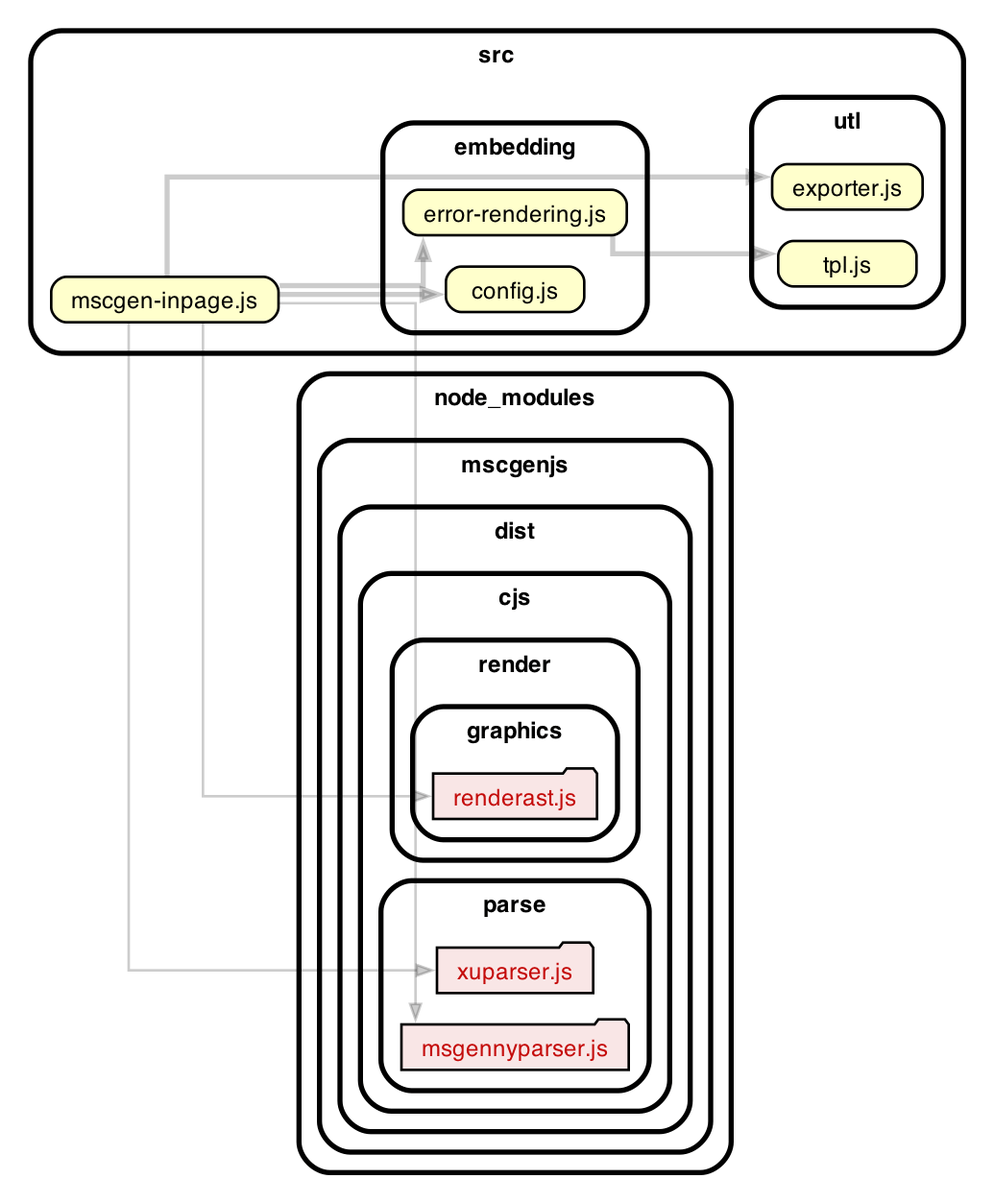
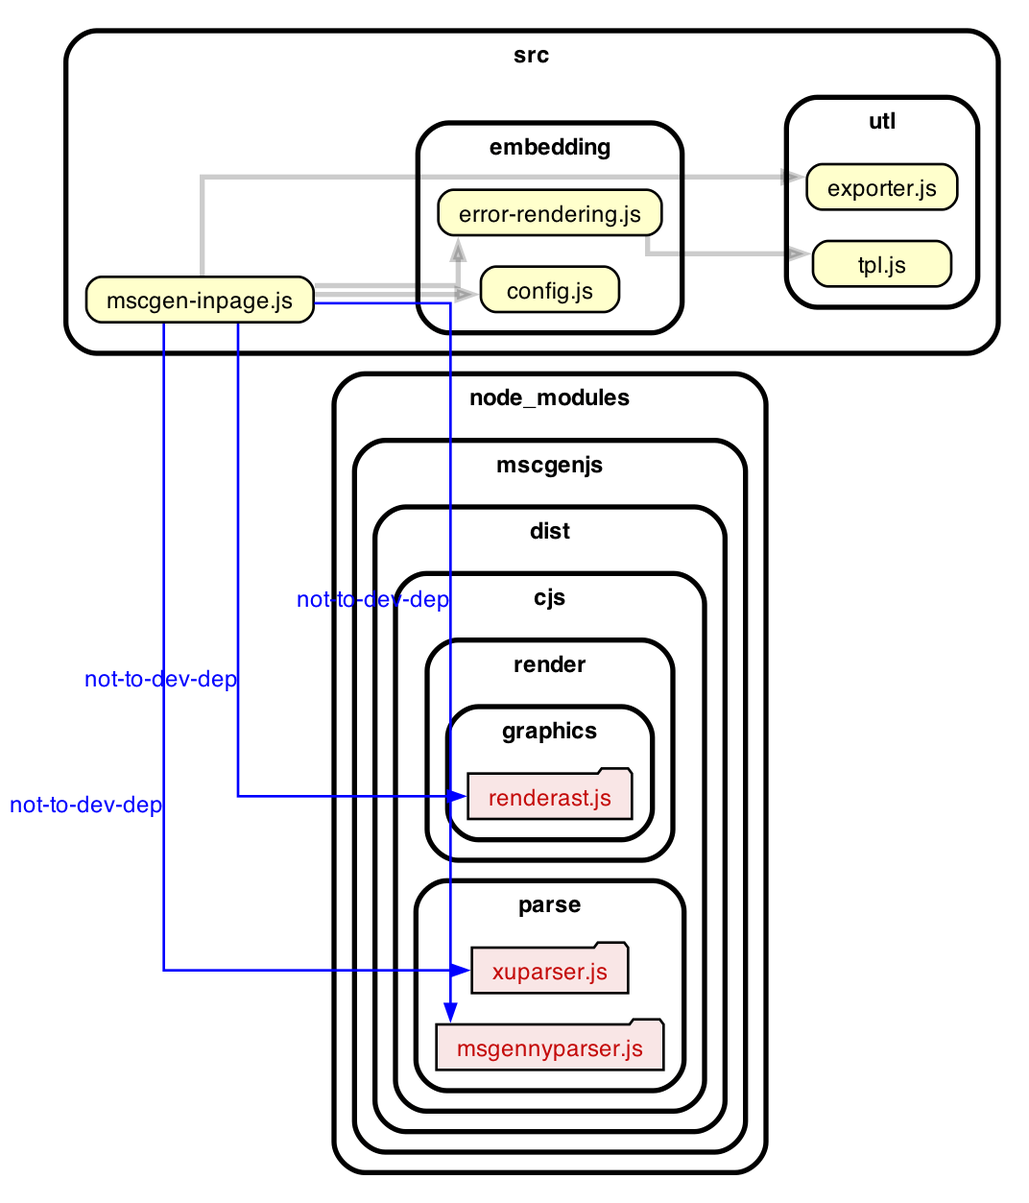
5.0.1

diff --git a/docs/dependencygraph.html b/docs/dependencygraph.html
@@ -125,67 +125,67 @@ div.hint {
 <!-- Generated by graphviz version 11.0.0 (20240428.1522)
  -->
 <!-- Title: dependency&#45;cruiser output Pages: 1 -->
-<svg width="388pt" height="470pt"
- viewBox="0.00 0.00 388.25 470.00" xmlns="http://www.w3.org/2000/svg" xmlns:xlink="http://www.w3.org/1999/xlink">
+<svg width="402pt" height="470pt"
+ viewBox="0.00 0.00 402.00 470.00" xmlns="http://www.w3.org/2000/svg" xmlns:xlink="http://www.w3.org/1999/xlink">
 <g id="graph0" class="graph" transform="scale(1 1) rotate(0) translate(4 466)">
 <title>dependency&#45;cruiser output</title>
-<polygon fill="white" stroke="none" points="-4,4 -4,-466 384.25,-466 384.25,4 -4,4"/>
+<polygon fill="white" stroke="none" points="-4,4 -4,-466 398,-466 398,4 -4,4"/>
 <g id="clust1" class="cluster">
 <title>cluster_node_modules</title>
-<path fill="#ffffff" stroke="black" stroke-width="2" d="M124.75,-8C124.75,-8 269.5,-8 269.5,-8 275.5,-8 281.5,-14 281.5,-20 281.5,-20 281.5,-308 281.5,-308 281.5,-314 275.5,-320 269.5,-320 269.5,-320 124.75,-320 124.75,-320 118.75,-320 112.75,-314 112.75,-308 112.75,-308 112.75,-20 112.75,-20 112.75,-14 118.75,-8 124.75,-8"/>
-<text text-anchor="middle" x="197.12" y="-307.45" font-family="Helvetica,sans-Serif" font-weight="bold" font-size="9.00">node_modules</text>
+<path fill="#ffffff" stroke="black" stroke-width="2" d="M138.5,-8C138.5,-8 283.25,-8 283.25,-8 289.25,-8 295.25,-14 295.25,-20 295.25,-20 295.25,-308 295.25,-308 295.25,-314 289.25,-320 283.25,-320 283.25,-320 138.5,-320 138.5,-320 132.5,-320 126.5,-314 126.5,-308 126.5,-308 126.5,-20 126.5,-20 126.5,-14 132.5,-8 138.5,-8"/>
+<text text-anchor="middle" x="210.88" y="-307.45" font-family="Helvetica,sans-Serif" font-weight="bold" font-size="9.00">node_modules</text>
 </g>
 <g id="clust2" class="cluster">
 <title>cluster_node_modules/mscgenjs</title>
-<path fill="#ffffff" stroke="black" stroke-width="2" d="M132.75,-16C132.75,-16 261.5,-16 261.5,-16 267.5,-16 273.5,-22 273.5,-28 273.5,-28 273.5,-282 273.5,-282 273.5,-288 267.5,-294 261.5,-294 261.5,-294 132.75,-294 132.75,-294 126.75,-294 120.75,-288 120.75,-282 120.75,-282 120.75,-28 120.75,-28 120.75,-22 126.75,-16 132.75,-16"/>
-<text text-anchor="middle" x="197.12" y="-281.45" font-family="Helvetica,sans-Serif" font-weight="bold" font-size="9.00">mscgenjs</text>
+<path fill="#ffffff" stroke="black" stroke-width="2" d="M146.5,-16C146.5,-16 275.25,-16 275.25,-16 281.25,-16 287.25,-22 287.25,-28 287.25,-28 287.25,-282 287.25,-282 287.25,-288 281.25,-294 275.25,-294 275.25,-294 146.5,-294 146.5,-294 140.5,-294 134.5,-288 134.5,-282 134.5,-282 134.5,-28 134.5,-28 134.5,-22 140.5,-16 146.5,-16"/>
+<text text-anchor="middle" x="210.88" y="-281.45" font-family="Helvetica,sans-Serif" font-weight="bold" font-size="9.00">mscgenjs</text>
 </g>
 <g id="clust3" class="cluster">
 <title>cluster_node_modules/mscgenjs/dist</title>
-<path fill="#ffffff" stroke="black" stroke-width="2" d="M140.75,-24C140.75,-24 253.5,-24 253.5,-24 259.5,-24 265.5,-30 265.5,-36 265.5,-36 265.5,-256 265.5,-256 265.5,-262 259.5,-268 253.5,-268 253.5,-268 140.75,-268 140.75,-268 134.75,-268 128.75,-262 128.75,-256 128.75,-256 128.75,-36 128.75,-36 128.75,-30 134.75,-24 140.75,-24"/>
-<text text-anchor="middle" x="197.12" y="-255.45" font-family="Helvetica,sans-Serif" font-weight="bold" font-size="9.00">dist</text>
+<path fill="#ffffff" stroke="black" stroke-width="2" d="M154.5,-24C154.5,-24 267.25,-24 267.25,-24 273.25,-24 279.25,-30 279.25,-36 279.25,-36 279.25,-256 279.25,-256 279.25,-262 273.25,-268 267.25,-268 267.25,-268 154.5,-268 154.5,-268 148.5,-268 142.5,-262 142.5,-256 142.5,-256 142.5,-36 142.5,-36 142.5,-30 148.5,-24 154.5,-24"/>
+<text text-anchor="middle" x="210.88" y="-255.45" font-family="Helvetica,sans-Serif" font-weight="bold" font-size="9.00">dist</text>
 </g>
 <g id="clust4" class="cluster">
 <title>cluster_node_modules/mscgenjs/dist/cjs</title>
-<path fill="#ffffff" stroke="black" stroke-width="2" d="M148.75,-32C148.75,-32 245.5,-32 245.5,-32 251.5,-32 257.5,-38 257.5,-44 257.5,-44 257.5,-230 257.5,-230 257.5,-236 251.5,-242 245.5,-242 245.5,-242 148.75,-242 148.75,-242 142.75,-242 136.75,-236 136.75,-230 136.75,-230 136.75,-44 136.75,-44 136.75,-38 142.75,-32 148.75,-32"/>
-<text text-anchor="middle" x="197.12" y="-229.45" font-family="Helvetica,sans-Serif" font-weight="bold" font-size="9.00">cjs</text>
+<path fill="#ffffff" stroke="black" stroke-width="2" d="M162.5,-32C162.5,-32 259.25,-32 259.25,-32 265.25,-32 271.25,-38 271.25,-44 271.25,-44 271.25,-230 271.25,-230 271.25,-236 265.25,-242 259.25,-242 259.25,-242 162.5,-242 162.5,-242 156.5,-242 150.5,-236 150.5,-230 150.5,-230 150.5,-44 150.5,-44 150.5,-38 156.5,-32 162.5,-32"/>
+<text text-anchor="middle" x="210.88" y="-229.45" font-family="Helvetica,sans-Serif" font-weight="bold" font-size="9.00">cjs</text>
 </g>
 <g id="clust5" class="cluster">
 <title>cluster_node_modules/mscgenjs/dist/cjs/parse</title>
-<path fill="#ffffff" stroke="black" stroke-width="2" d="M156.75,-40C156.75,-40 237.5,-40 237.5,-40 243.5,-40 249.5,-46 249.5,-52 249.5,-52 249.5,-110 249.5,-110 249.5,-116 243.5,-122 237.5,-122 237.5,-122 156.75,-122 156.75,-122 150.75,-122 144.75,-116 144.75,-110 144.75,-110 144.75,-52 144.75,-52 144.75,-46 150.75,-40 156.75,-40"/>
-<text text-anchor="middle" x="197.12" y="-109.45" font-family="Helvetica,sans-Serif" font-weight="bold" font-size="9.00">parse</text>
+<path fill="#ffffff" stroke="black" stroke-width="2" d="M170.5,-40C170.5,-40 251.25,-40 251.25,-40 257.25,-40 263.25,-46 263.25,-52 263.25,-52 263.25,-110 263.25,-110 263.25,-116 257.25,-122 251.25,-122 251.25,-122 170.5,-122 170.5,-122 164.5,-122 158.5,-116 158.5,-110 158.5,-110 158.5,-52 158.5,-52 158.5,-46 164.5,-40 170.5,-40"/>
+<text text-anchor="middle" x="210.88" y="-109.45" font-family="Helvetica,sans-Serif" font-weight="bold" font-size="9.00">parse</text>
 </g>
 <g id="clust6" class="cluster">
 <title>cluster_node_modules/mscgenjs/dist/cjs/render</title>
-<path fill="#ffffff" stroke="black" stroke-width="2" d="M161.12,-130C161.12,-130 233.12,-130 233.12,-130 239.12,-130 245.12,-136 245.12,-142 245.12,-142 245.12,-204 245.12,-204 245.12,-210 239.12,-216 233.12,-216 233.12,-216 161.12,-216 161.12,-216 155.12,-216 149.12,-210 149.12,-204 149.12,-204 149.12,-142 149.12,-142 149.12,-136 155.12,-130 161.12,-130"/>
-<text text-anchor="middle" x="197.12" y="-203.45" font-family="Helvetica,sans-Serif" font-weight="bold" font-size="9.00">render</text>
+<path fill="#ffffff" stroke="black" stroke-width="2" d="M174.88,-130C174.88,-130 246.88,-130 246.88,-130 252.88,-130 258.88,-136 258.88,-142 258.88,-142 258.88,-204 258.88,-204 258.88,-210 252.88,-216 246.88,-216 246.88,-216 174.88,-216 174.88,-216 168.88,-216 162.88,-210 162.88,-204 162.88,-204 162.88,-142 162.88,-142 162.88,-136 168.88,-130 174.88,-130"/>
+<text text-anchor="middle" x="210.88" y="-203.45" font-family="Helvetica,sans-Serif" font-weight="bold" font-size="9.00">render</text>
 </g>
 <g id="clust7" class="cluster">
 <title>cluster_node_modules/mscgenjs/dist/cjs/render/graphics</title>
-<path fill="#ffffff" stroke="black" stroke-width="2" d="M169.12,-138C169.12,-138 225.12,-138 225.12,-138 231.12,-138 237.12,-144 237.12,-150 237.12,-150 237.12,-178 237.12,-178 237.12,-184 231.12,-190 225.12,-190 225.12,-190 169.12,-190 169.12,-190 163.12,-190 157.12,-184 157.12,-178 157.12,-178 157.12,-150 157.12,-150 157.12,-144 163.12,-138 169.12,-138"/>
-<text text-anchor="middle" x="197.12" y="-177.45" font-family="Helvetica,sans-Serif" font-weight="bold" font-size="9.00">graphics</text>
+<path fill="#ffffff" stroke="black" stroke-width="2" d="M182.88,-138C182.88,-138 238.88,-138 238.88,-138 244.88,-138 250.88,-144 250.88,-150 250.88,-150 250.88,-178 250.88,-178 250.88,-184 244.88,-190 238.88,-190 238.88,-190 182.88,-190 182.88,-190 176.88,-190 170.88,-184 170.88,-178 170.88,-178 170.88,-150 170.88,-150 170.88,-144 176.88,-138 182.88,-138"/>
+<text text-anchor="middle" x="210.88" y="-177.45" font-family="Helvetica,sans-Serif" font-weight="bold" font-size="9.00">graphics</text>
 </g>
 <g id="clust8" class="cluster">
 <title>cluster_src</title>
-<path fill="#ffffff" stroke="black" stroke-width="2" d="M20,-328C20,-328 360.25,-328 360.25,-328 366.25,-328 372.25,-334 372.25,-340 372.25,-340 372.25,-442 372.25,-442 372.25,-448 366.25,-454 360.25,-454 360.25,-454 20,-454 20,-454 14,-454 8,-448 8,-442 8,-442 8,-340 8,-340 8,-334 14,-328 20,-328"/>
-<text text-anchor="middle" x="190.12" y="-441.45" font-family="Helvetica,sans-Serif" font-weight="bold" font-size="9.00">src</text>
+<path fill="#ffffff" stroke="black" stroke-width="2" d="M33.75,-328C33.75,-328 374,-328 374,-328 380,-328 386,-334 386,-340 386,-340 386,-442 386,-442 386,-448 380,-454 374,-454 374,-454 33.75,-454 33.75,-454 27.75,-454 21.75,-448 21.75,-442 21.75,-442 21.75,-340 21.75,-340 21.75,-334 27.75,-328 33.75,-328"/>
+<text text-anchor="middle" x="203.88" y="-441.45" font-family="Helvetica,sans-Serif" font-weight="bold" font-size="9.00">src</text>
 </g>
 <g id="clust9" class="cluster">
 <title>cluster_src/embedding</title>
-<path fill="#ffffff" stroke="black" stroke-width="2" d="M157.5,-336C157.5,-336 236.75,-336 236.75,-336 242.75,-336 248.75,-342 248.75,-348 248.75,-348 248.75,-406 248.75,-406 248.75,-412 242.75,-418 236.75,-418 236.75,-418 157.5,-418 157.5,-418 151.5,-418 145.5,-412 145.5,-406 145.5,-406 145.5,-348 145.5,-348 145.5,-342 151.5,-336 157.5,-336"/>
-<text text-anchor="middle" x="197.12" y="-405.45" font-family="Helvetica,sans-Serif" font-weight="bold" font-size="9.00">embedding</text>
+<path fill="#ffffff" stroke="black" stroke-width="2" d="M171.25,-336C171.25,-336 250.5,-336 250.5,-336 256.5,-336 262.5,-342 262.5,-348 262.5,-348 262.5,-406 262.5,-406 262.5,-412 256.5,-418 250.5,-418 250.5,-418 171.25,-418 171.25,-418 165.25,-418 159.25,-412 159.25,-406 159.25,-406 159.25,-348 159.25,-348 159.25,-342 165.25,-336 171.25,-336"/>
+<text text-anchor="middle" x="210.88" y="-405.45" font-family="Helvetica,sans-Serif" font-weight="bold" font-size="9.00">embedding</text>
 </g>
 <g id="clust10" class="cluster">
 <title>cluster_src/utl</title>
-<path fill="#ffffff" stroke="black" stroke-width="2" d="M301.5,-346C301.5,-346 352.25,-346 352.25,-346 358.25,-346 364.25,-352 364.25,-358 364.25,-358 364.25,-416 364.25,-416 364.25,-422 358.25,-428 352.25,-428 352.25,-428 301.5,-428 301.5,-428 295.5,-428 289.5,-422 289.5,-416 289.5,-416 289.5,-358 289.5,-358 289.5,-352 295.5,-346 301.5,-346"/>
-<text text-anchor="middle" x="326.88" y="-415.45" font-family="Helvetica,sans-Serif" font-weight="bold" font-size="9.00">utl</text>
+<path fill="#ffffff" stroke="black" stroke-width="2" d="M315.25,-346C315.25,-346 366,-346 366,-346 372,-346 378,-352 378,-358 378,-358 378,-416 378,-416 378,-422 372,-428 366,-428 366,-428 315.25,-428 315.25,-428 309.25,-428 303.25,-422 303.25,-416 303.25,-416 303.25,-358 303.25,-358 303.25,-352 309.25,-346 315.25,-346"/>
+<text text-anchor="middle" x="340.62" y="-415.45" font-family="Helvetica,sans-Serif" font-weight="bold" font-size="9.00">utl</text>
 </g>
 <!-- node_modules/mscgenjs/dist/cjs/parse/msgennyparser.js -->
 <g id="node1" class="node">
 <title>node_modules/mscgenjs/dist/cjs/parse/msgennyparser.js</title>
 <g id="a_node1"><a xlink:href="https://www.npmjs.com/package/mscgenjs" xlink:title="msgennyparser.js">
-<polygon fill="#c40b0a" fill-opacity="0.101961" stroke="black" points="241.5,-65.88 240.02,-67.85 229.67,-67.85 228.19,-65.88 152.75,-65.88 152.75,-48.12 241.5,-48.12 241.5,-65.88"/>
-<text text-anchor="start" x="160.75" y="-53.33" font-family="Helvetica,sans-Serif" font-size="9.00" fill="#c40b0a">msgennyparser.js</text>
+<polygon fill="#c40b0a" fill-opacity="0.101961" stroke="black" points="255.25,-65.88 253.77,-67.85 243.42,-67.85 241.94,-65.88 166.5,-65.88 166.5,-48.12 255.25,-48.12 255.25,-65.88"/>
+<text text-anchor="start" x="174.5" y="-53.33" font-family="Helvetica,sans-Serif" font-size="9.00" fill="#c40b0a">msgennyparser.js</text>
 </a>
 </g>
 </g>
@@ -193,8 +193,8 @@ div.hint {
 <g id="node2" class="node">
 <title>node_modules/mscgenjs/dist/cjs/parse/xuparser.js</title>
 <g id="a_node2"><a xlink:href="https://www.npmjs.com/package/mscgenjs" xlink:title="xuparser.js">
-<polygon fill="#c40b0a" fill-opacity="0.101961" stroke="black" points="227.62,-95.88 226.15,-97.85 215.79,-97.85 214.31,-95.88 166.62,-95.88 166.62,-78.12 227.62,-78.12 227.62,-95.88"/>
-<text text-anchor="start" x="174.62" y="-83.33" font-family="Helvetica,sans-Serif" font-size="9.00" fill="#c40b0a">xuparser.js</text>
+<polygon fill="#c40b0a" fill-opacity="0.101961" stroke="black" points="241.38,-95.88 239.9,-97.85 229.54,-97.85 228.06,-95.88 180.38,-95.88 180.38,-78.12 241.38,-78.12 241.38,-95.88"/>
+<text text-anchor="start" x="188.38" y="-83.33" font-family="Helvetica,sans-Serif" font-size="9.00" fill="#c40b0a">xuparser.js</text>
 </a>
 </g>
 </g>
@@ -202,8 +202,8 @@ div.hint {
 <g id="node3" class="node">
 <title>node_modules/mscgenjs/dist/cjs/render/graphics/renderast.js</title>
 <g id="a_node3"><a xlink:href="https://www.npmjs.com/package/mscgenjs" xlink:title="renderast.js">
-<polygon fill="#c40b0a" fill-opacity="0.101961" stroke="black" points="229.12,-163.88 227.65,-165.85 217.29,-165.85 215.81,-163.88 165.12,-163.88 165.12,-146.12 229.12,-146.12 229.12,-163.88"/>
-<text text-anchor="start" x="173.12" y="-151.32" font-family="Helvetica,sans-Serif" font-size="9.00" fill="#c40b0a">renderast.js</text>
+<polygon fill="#c40b0a" fill-opacity="0.101961" stroke="black" points="242.88,-163.88 241.4,-165.85 231.04,-165.85 229.56,-163.88 178.88,-163.88 178.88,-146.12 242.88,-146.12 242.88,-163.88"/>
+<text text-anchor="start" x="186.88" y="-151.32" font-family="Helvetica,sans-Serif" font-size="9.00" fill="#c40b0a">renderast.js</text>
 </a>
 </g>
 </g>
@@ -211,8 +211,8 @@ div.hint {
 <g id="node4" class="node">
 <title>src/embedding/config.js</title>
 <g id="a_node4"><a xlink:href="https://github.com/mscgenjs/mscgenjs-inpage/blob/master/src/embedding/config.js" xlink:title="config.js">
-<path fill="#ffffcc" stroke="black" d="M218.21,-361.88C218.21,-361.88 176.04,-361.88 176.04,-361.88 173.08,-361.88 170.12,-358.92 170.12,-355.96 170.12,-355.96 170.12,-350.04 170.12,-350.04 170.12,-347.08 173.08,-344.12 176.04,-344.12 176.04,-344.12 218.21,-344.12 218.21,-344.12 221.17,-344.12 224.12,-347.08 224.12,-350.04 224.12,-350.04 224.12,-355.96 224.12,-355.96 224.12,-358.92 221.17,-361.88 218.21,-361.88"/>
-<text text-anchor="start" x="180.25" y="-349.32" font-family="Helvetica,sans-Serif" font-size="9.00">config.js</text>
+<path fill="#ffffcc" stroke="black" d="M231.96,-361.88C231.96,-361.88 189.79,-361.88 189.79,-361.88 186.83,-361.88 183.88,-358.92 183.88,-355.96 183.88,-355.96 183.88,-350.04 183.88,-350.04 183.88,-347.08 186.83,-344.12 189.79,-344.12 189.79,-344.12 231.96,-344.12 231.96,-344.12 234.92,-344.12 237.88,-347.08 237.88,-350.04 237.88,-350.04 237.88,-355.96 237.88,-355.96 237.88,-358.92 234.92,-361.88 231.96,-361.88"/>
+<text text-anchor="start" x="194" y="-349.32" font-family="Helvetica,sans-Serif" font-size="9.00">config.js</text>
 </a>
 </g>
 </g>
@@ -220,8 +220,8 @@ div.hint {
 <g id="node5" class="node">
 <title>src/embedding/error&#45;rendering.js</title>
 <g id="a_node5"><a xlink:href="https://github.com/mscgenjs/mscgenjs-inpage/blob/master/src/embedding/error-rendering.js" xlink:title="error&#45;rendering.js">
-<path fill="#ffffcc" stroke="black" d="M234.83,-391.88C234.83,-391.88 159.42,-391.88 159.42,-391.88 156.46,-391.88 153.5,-388.92 153.5,-385.96 153.5,-385.96 153.5,-380.04 153.5,-380.04 153.5,-377.08 156.46,-374.12 159.42,-374.12 159.42,-374.12 234.83,-374.12 234.83,-374.12 237.79,-374.12 240.75,-377.08 240.75,-380.04 240.75,-380.04 240.75,-385.96 240.75,-385.96 240.75,-388.92 237.79,-391.88 234.83,-391.88"/>
-<text text-anchor="start" x="161.5" y="-379.32" font-family="Helvetica,sans-Serif" font-size="9.00">error&#45;rendering.js</text>
+<path fill="#ffffcc" stroke="black" d="M248.58,-391.88C248.58,-391.88 173.17,-391.88 173.17,-391.88 170.21,-391.88 167.25,-388.92 167.25,-385.96 167.25,-385.96 167.25,-380.04 167.25,-380.04 167.25,-377.08 170.21,-374.12 173.17,-374.12 173.17,-374.12 248.58,-374.12 248.58,-374.12 251.54,-374.12 254.5,-377.08 254.5,-380.04 254.5,-380.04 254.5,-385.96 254.5,-385.96 254.5,-388.92 251.54,-391.88 248.58,-391.88"/>
+<text text-anchor="start" x="175.25" y="-379.32" font-family="Helvetica,sans-Serif" font-size="9.00">error&#45;rendering.js</text>
 </a>
 </g>
 </g>
@@ -229,70 +229,82 @@ div.hint {
 <g id="node6" class="node">
 <title>src/utl/tpl.js</title>
 <g id="a_node6"><a xlink:href="https://github.com/mscgenjs/mscgenjs-inpage/blob/master/src/utl/tpl.js" xlink:title="tpl.js">
-<path fill="#ffffcc" stroke="black" d="M347.96,-371.88C347.96,-371.88 305.79,-371.88 305.79,-371.88 302.83,-371.88 299.88,-368.92 299.88,-365.96 299.88,-365.96 299.88,-360.04 299.88,-360.04 299.88,-357.08 302.83,-354.12 305.79,-354.12 305.79,-354.12 347.96,-354.12 347.96,-354.12 350.92,-354.12 353.88,-357.08 353.88,-360.04 353.88,-360.04 353.88,-365.96 353.88,-365.96 353.88,-368.92 350.92,-371.88 347.96,-371.88"/>
-<text text-anchor="start" x="317.5" y="-359.32" font-family="Helvetica,sans-Serif" font-size="9.00">tpl.js</text>
+<path fill="#ffffcc" stroke="black" d="M361.71,-371.88C361.71,-371.88 319.54,-371.88 319.54,-371.88 316.58,-371.88 313.62,-368.92 313.62,-365.96 313.62,-365.96 313.62,-360.04 313.62,-360.04 313.62,-357.08 316.58,-354.12 319.54,-354.12 319.54,-354.12 361.71,-354.12 361.71,-354.12 364.67,-354.12 367.62,-357.08 367.62,-360.04 367.62,-360.04 367.62,-365.96 367.62,-365.96 367.62,-368.92 364.67,-371.88 361.71,-371.88"/>
+<text text-anchor="start" x="331.25" y="-359.32" font-family="Helvetica,sans-Serif" font-size="9.00">tpl.js</text>
 </a>
 </g>
 </g>
 <!-- src/embedding/error&#45;rendering.js&#45;&gt;src/utl/tpl.js -->
 <g id="edge1" class="edge">
 <title>src/embedding/error&#45;rendering.js&#45;&gt;src/utl/tpl.js</title>
-<path fill="none" stroke="#000000" stroke-width="2" stroke-opacity="0.200000" d="M235.25,-373.81C235.25,-370.19 235.25,-366.88 235.25,-366.88 235.25,-366.88 290.36,-366.88 290.36,-366.88"/>
-<polygon fill="#000000" fill-opacity="0.200000" stroke="#000000" stroke-width="2" stroke-opacity="0.200000" points="290.36,-368.98 296.36,-366.88 290.36,-364.78 290.36,-368.98"/>
+<path fill="none" stroke="#000000" stroke-width="2" stroke-opacity="0.200000" d="M249,-373.81C249,-370.19 249,-366.88 249,-366.88 249,-366.88 304.11,-366.88 304.11,-366.88"/>
+<polygon fill="#000000" fill-opacity="0.200000" stroke="#000000" stroke-width="2" stroke-opacity="0.200000" points="304.11,-368.98 310.11,-366.88 304.11,-364.78 304.11,-368.98"/>
 </g>
 <!-- src/mscgen&#45;inpage.js -->
 <g id="node7" class="node">
 <title>src/mscgen&#45;inpage.js</title>
 <g id="a_node7"><a xlink:href="https://github.com/mscgenjs/mscgenjs-inpage/blob/master/src/mscgen-inpage.js" xlink:title="mscgen&#45;inpage.js">
-<path fill="#ffffcc" stroke="black" d="M98.83,-357.88C98.83,-357.88 21.92,-357.88 21.92,-357.88 18.96,-357.88 16,-354.92 16,-351.96 16,-351.96 16,-346.04 16,-346.04 16,-343.08 18.96,-340.12 21.92,-340.12 21.92,-340.12 98.83,-340.12 98.83,-340.12 101.79,-340.12 104.75,-343.08 104.75,-346.04 104.75,-346.04 104.75,-351.96 104.75,-351.96 104.75,-354.92 101.79,-357.88 98.83,-357.88"/>
-<text text-anchor="start" x="24" y="-345.32" font-family="Helvetica,sans-Serif" font-size="9.00">mscgen&#45;inpage.js</text>
+<path fill="#ffffcc" stroke="black" d="M112.58,-357.88C112.58,-357.88 35.67,-357.88 35.67,-357.88 32.71,-357.88 29.75,-354.92 29.75,-351.96 29.75,-351.96 29.75,-346.04 29.75,-346.04 29.75,-343.08 32.71,-340.12 35.67,-340.12 35.67,-340.12 112.58,-340.12 112.58,-340.12 115.54,-340.12 118.5,-343.08 118.5,-346.04 118.5,-346.04 118.5,-351.96 118.5,-351.96 118.5,-354.92 115.54,-357.88 112.58,-357.88"/>
+<text text-anchor="start" x="37.75" y="-345.32" font-family="Helvetica,sans-Serif" font-size="9.00">mscgen&#45;inpage.js</text>
 </a>
 </g>
 </g>
 <!-- src/mscgen&#45;inpage.js&#45;&gt;node_modules/mscgenjs/dist/cjs/parse/msgennyparser.js -->
 <g id="edge5" class="edge">
 <title>src/mscgen&#45;inpage.js&#45;&gt;node_modules/mscgenjs/dist/cjs/parse/msgennyparser.js</title>
-<path fill="none" stroke="#000000" stroke-opacity="0.200000" d="M105.02,-347.56C130.83,-347.56 158.25,-347.56 158.25,-347.56 158.25,-347.56 158.25,-73.85 158.25,-73.85"/>
-<polygon fill="#000000" fill-opacity="0.200000" stroke="#000000" stroke-opacity="0.200000" points="160.35,-73.85 158.25,-67.85 156.15,-73.85 160.35,-73.85"/>
+<g id="a_edge5"><a xlink:title="not&#45;to&#45;dev&#45;dep">
+<path fill="none" stroke="blue" d="M118.77,-347.56C144.58,-347.56 172,-347.56 172,-347.56 172,-347.56 172,-73.85 172,-73.85"/>
+<polygon fill="blue" stroke="blue" points="174.1,-73.85 172,-67.85 169.9,-73.85 174.1,-73.85"/>
+</a>
+</g>
+<text text-anchor="middle" x="142" y="-228.77" font-family="Helvetica,sans-Serif" font-size="9.00" fill="blue">not&#45;to&#45;dev&#45;dep</text>
 </g>
 <!-- src/mscgen&#45;inpage.js&#45;&gt;node_modules/mscgenjs/dist/cjs/parse/xuparser.js -->
 <g id="edge6" class="edge">
 <title>src/mscgen&#45;inpage.js&#45;&gt;node_modules/mscgenjs/dist/cjs/parse/xuparser.js</title>
-<path fill="none" stroke="#000000" stroke-opacity="0.200000" d="M46.25,-339.68C46.25,-293 46.25,-87 46.25,-87 46.25,-87 158.72,-87 158.72,-87"/>
-<polygon fill="#000000" fill-opacity="0.200000" stroke="#000000" stroke-opacity="0.200000" points="158.72,-89.1 164.72,-87 158.72,-84.9 158.72,-89.1"/>
+<g id="a_edge6"><a xlink:title="not&#45;to&#45;dev&#45;dep">
+<path fill="none" stroke="blue" d="M60,-339.68C60,-293 60,-87 60,-87 60,-87 172.47,-87 172.47,-87"/>
+<polygon fill="blue" stroke="blue" points="172.47,-89.1 178.47,-87 172.47,-84.9 172.47,-89.1"/>
+</a>
+</g>
+<text text-anchor="middle" x="30" y="-148.55" font-family="Helvetica,sans-Serif" font-size="9.00" fill="blue">not&#45;to&#45;dev&#45;dep</text>
 </g>
 <!-- src/mscgen&#45;inpage.js&#45;&gt;node_modules/mscgenjs/dist/cjs/render/graphics/renderast.js -->
 <g id="edge7" class="edge">
 <title>src/mscgen&#45;inpage.js&#45;&gt;node_modules/mscgenjs/dist/cjs/render/graphics/renderast.js</title>
-<path fill="none" stroke="#000000" stroke-opacity="0.200000" d="M75.25,-339.64C75.25,-300.89 75.25,-155 75.25,-155 75.25,-155 157.27,-155 157.27,-155"/>
-<polygon fill="#000000" fill-opacity="0.200000" stroke="#000000" stroke-opacity="0.200000" points="157.27,-157.1 163.27,-155 157.27,-152.9 157.27,-157.1"/>
+<g id="a_edge7"><a xlink:title="not&#45;to&#45;dev&#45;dep">
+<path fill="none" stroke="blue" d="M89,-339.64C89,-300.89 89,-155 89,-155 89,-155 171.02,-155 171.02,-155"/>
+<polygon fill="blue" stroke="blue" points="171.02,-157.1 177.02,-155 171.02,-152.9 171.02,-157.1"/>
+</a>
+</g>
+<text text-anchor="middle" x="59" y="-197.76" font-family="Helvetica,sans-Serif" font-size="9.00" fill="blue">not&#45;to&#45;dev&#45;dep</text>
 </g>
 <!-- src/mscgen&#45;inpage.js&#45;&gt;src/embedding/config.js -->
 <g id="edge2" class="edge">
 <title>src/mscgen&#45;inpage.js&#45;&gt;src/embedding/config.js</title>
-<path fill="none" stroke="#000000" stroke-width="2" stroke-opacity="0.200000" d="M105.15,-351C105.15,-351 160.79,-351 160.79,-351"/>
-<polygon fill="#000000" fill-opacity="0.200000" stroke="#000000" stroke-width="2" stroke-opacity="0.200000" points="160.79,-353.1 166.79,-351 160.79,-348.9 160.79,-353.1"/>
+<path fill="none" stroke="#000000" stroke-width="2" stroke-opacity="0.200000" d="M118.9,-351C118.9,-351 174.54,-351 174.54,-351"/>
+<polygon fill="#000000" fill-opacity="0.200000" stroke="#000000" stroke-width="2" stroke-opacity="0.200000" points="174.54,-353.1 180.54,-351 174.54,-348.9 174.54,-353.1"/>
 </g>
 <!-- src/mscgen&#45;inpage.js&#45;&gt;src/embedding/error&#45;rendering.js -->
 <g id="edge3" class="edge">
 <title>src/mscgen&#45;inpage.js&#45;&gt;src/embedding/error&#45;rendering.js</title>
-<path fill="none" stroke="#000000" stroke-width="2" stroke-opacity="0.200000" d="M105.21,-354.44C132.15,-354.44 161.25,-354.44 161.25,-354.44 161.25,-354.44 161.25,-364.62 161.25,-364.62"/>
-<polygon fill="#000000" fill-opacity="0.200000" stroke="#000000" stroke-width="2" stroke-opacity="0.200000" points="159.15,-364.62 161.25,-370.62 163.35,-364.62 159.15,-364.62"/>
+<path fill="none" stroke="#000000" stroke-width="2" stroke-opacity="0.200000" d="M118.96,-354.44C145.9,-354.44 175,-354.44 175,-354.44 175,-354.44 175,-364.62 175,-364.62"/>
+<polygon fill="#000000" fill-opacity="0.200000" stroke="#000000" stroke-width="2" stroke-opacity="0.200000" points="172.9,-364.62 175,-370.62 177.1,-364.62 172.9,-364.62"/>
 </g>
 <!-- src/utl/exporter.js -->
 <g id="node8" class="node">
 <title>src/utl/exporter.js</title>
 <g id="a_node8"><a xlink:href="https://github.com/mscgenjs/mscgenjs-inpage/blob/master/src/utl/exporter.js" xlink:title="exporter.js">
-<path fill="#ffffcc" stroke="black" d="M350.33,-401.88C350.33,-401.88 303.42,-401.88 303.42,-401.88 300.46,-401.88 297.5,-398.92 297.5,-395.96 297.5,-395.96 297.5,-390.04 297.5,-390.04 297.5,-387.08 300.46,-384.12 303.42,-384.12 303.42,-384.12 350.33,-384.12 350.33,-384.12 353.29,-384.12 356.25,-387.08 356.25,-390.04 356.25,-390.04 356.25,-395.96 356.25,-395.96 356.25,-398.92 353.29,-401.88 350.33,-401.88"/>
-<text text-anchor="start" x="305.5" y="-389.32" font-family="Helvetica,sans-Serif" font-size="9.00">exporter.js</text>
+<path fill="#ffffcc" stroke="black" d="M364.08,-401.88C364.08,-401.88 317.17,-401.88 317.17,-401.88 314.21,-401.88 311.25,-398.92 311.25,-395.96 311.25,-395.96 311.25,-390.04 311.25,-390.04 311.25,-387.08 314.21,-384.12 317.17,-384.12 317.17,-384.12 364.08,-384.12 364.08,-384.12 367.04,-384.12 370,-387.08 370,-390.04 370,-390.04 370,-395.96 370,-395.96 370,-398.92 367.04,-401.88 364.08,-401.88"/>
+<text text-anchor="start" x="319.25" y="-389.32" font-family="Helvetica,sans-Serif" font-size="9.00">exporter.js</text>
 </a>
 </g>
 </g>
 <!-- src/mscgen&#45;inpage.js&#45;&gt;src/utl/exporter.js -->
 <g id="edge4" class="edge">
 <title>src/mscgen&#45;inpage.js&#45;&gt;src/utl/exporter.js</title>
-<path fill="none" stroke="#000000" stroke-width="2" stroke-opacity="0.200000" d="M61.25,-358.23C61.25,-372.14 61.25,-396.88 61.25,-396.88 61.25,-396.88 288.15,-396.88 288.15,-396.88"/>
-<polygon fill="#000000" fill-opacity="0.200000" stroke="#000000" stroke-width="2" stroke-opacity="0.200000" points="288.15,-398.98 294.15,-396.88 288.15,-394.78 288.15,-398.98"/>
+<path fill="none" stroke="#000000" stroke-width="2" stroke-opacity="0.200000" d="M75,-358.23C75,-372.14 75,-396.88 75,-396.88 75,-396.88 301.9,-396.88 301.9,-396.88"/>
+<polygon fill="#000000" fill-opacity="0.200000" stroke="#000000" stroke-width="2" stroke-opacity="0.200000" points="301.9,-398.98 307.9,-396.88 301.9,-394.78 301.9,-398.98"/>
 </g>
 </g>
 </svg>
